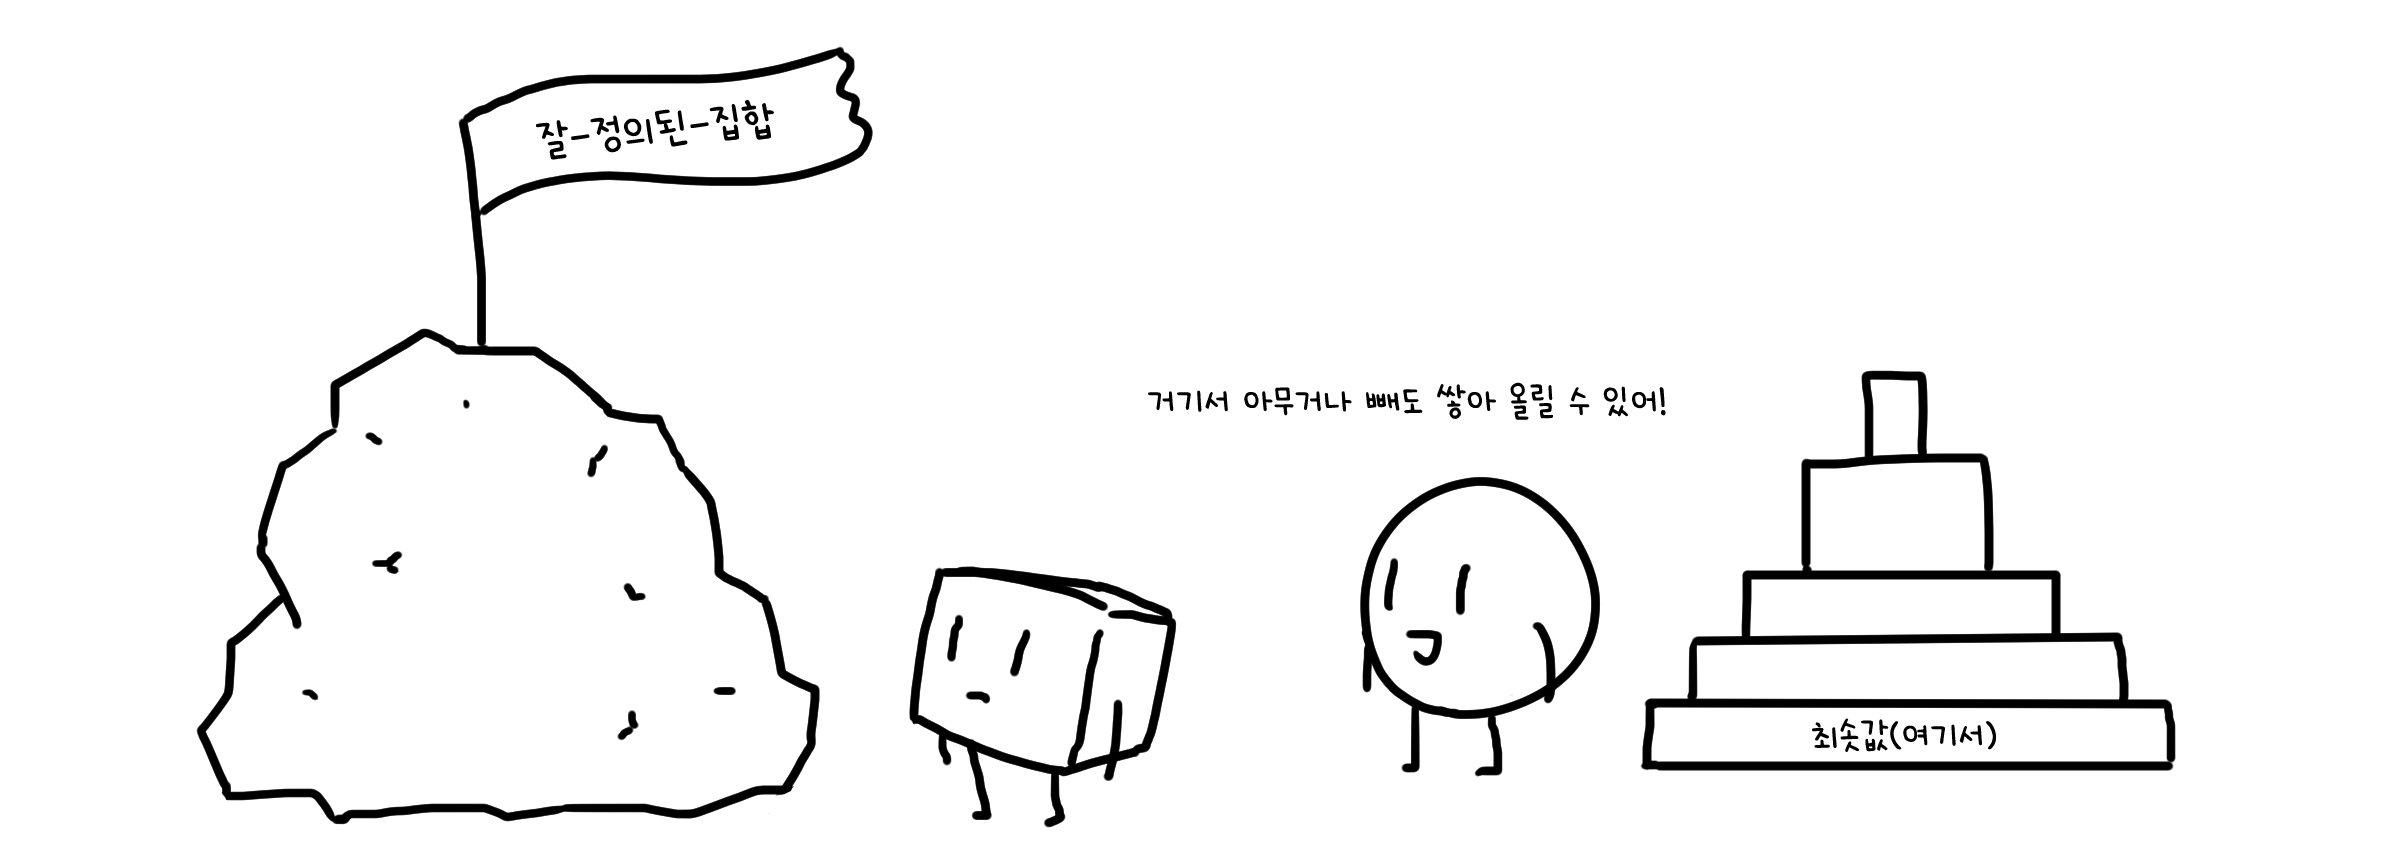
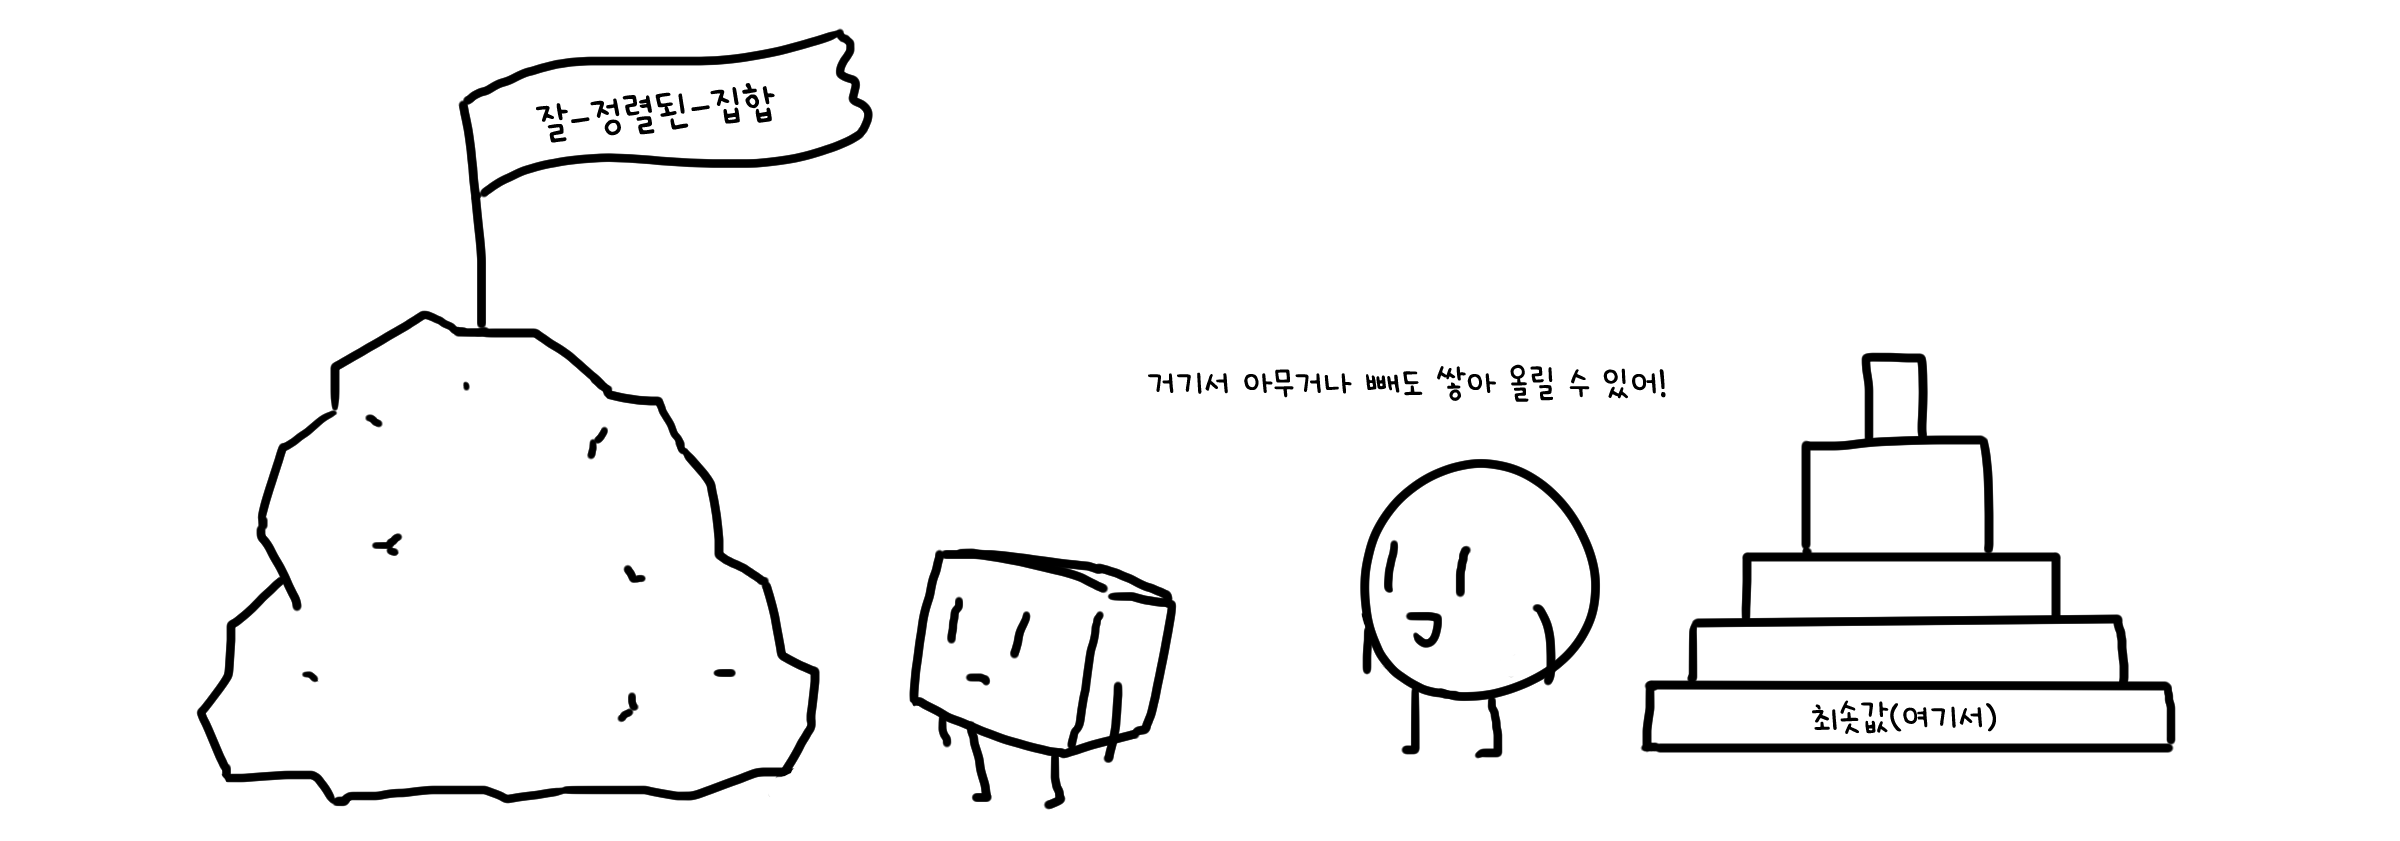
feat: post cm201 6

diff --git a/_posts/2025-11-10-cm201-6.md b/_posts/2025-11-10-cm201-6.md
@@ -1,0 +1,141 @@
+---
+title: '[CM201] 06. 추론 (Inference)'
+description: ''
+author: Doun
+date: 2025-11-10 16:16:00 +0900
+categories: [cm201]
+tags: [이산수학]
+pin: true
+math: true
+mermaid: true
+image:
+  path: /assets/img/thumbnails/cm201/6.png
[1 lines of base64/hex data omitted]
+  alt: '[CM201] 06. 추론 (Inference)'
+---
+
+이때까지 다루었던 내용들을 써 먹어 볼 시간입니다. 여러 가지 문제들을 해결하는데 도움이 되는 기본적인 추론 과정들에 대해 소개하겠습니다.
+
+## 귀납법과 연역법 (Induction & Deduction)
+
+ &ensp;어떤 문제를 해결하는데 사용하는 추론 방법은 크게 연역적인 경우와 귀납적인 경우로 구분할 수 있습니다. **연역(deduction)**은 일반적 원리에서 개별적 결론을 이끌어내는 추론 방식이고, **귀납(induction)**은 개별적 사례들에서 일반적 원리를 발견하는 추론 방식입니다.
+
+<img src="{{ 'assets/img/illustration/cm201/6_1.png' | absolute_url }}" alt="image1" class="post" />
+
+ &ensp;귀납적 사고방식은 주로 **과학적인 사실을 밝혀내는데 사용**됩니다. 세상에 벌어지는 다양한 현상들을 관찰하고 수집하여, 거기서 보이는 어떤 공통적인 패턴을 찾아 법칙이라는 이름을 붙이는 것이죠. 결론은 어디까지나 맞는게 아닌, 가능성이 높은 편일 뿐입니다. 새로운 반례가 나타나면 깨질 수도 있죠. 과학계가 매번 뒤집히고 들썩이고 하는 이유가 이 때문이에요.
+
+<img src="{{ 'assets/img/illustration/cm201/6_2.png' | absolute_url }}" alt="image2" class="post" />
+
+ &ensp;반면 이때까지 논리를 다루는 방법을 보면 알 수 있듯이, **수학은 귀납적 추론을 허용하지 않습니다.**  n이 1일 때, 2일 때, 3일 때... 등 자잘한 사례들을 모아 명제를 증명해도, 그게 모든 자연수 n에 대해서 성립한다고 말할 수는 없으니까요. 대신 정의와 정리라는 일반적인 원리를 기반으로 증명을 통해 새로운 정리를 이끌어내는 **연역적 사고방식**을 사용하게 됩니다.
+
+<img src="{{ 'assets/img/illustration/cm201/6_3.png' | absolute_url }}" alt="image3" class="post" />
+
+### 수학적 귀납법 (Mathematical induction)
+
+ &ensp;그래서, 우리가 알아볼 것은 **수학적 귀납법**입니다.
+
+<img src="{{ 'assets/img/illustration/cm201/6_4.png' | absolute_url }}" alt="image4" class="post" />
+
+ &ensp;네. 이건 *수학적* 귀납법입니다. 사실 이것도 연역적 추론 방식의 일부입니다. 우선, 수학적 귀납법을 수식으로 나타내면 이렇게 요약할 수 있습니다.
+
+$$
+\forall n \in \mathbb{Z}^+, \quad \{S(1) ∧ (\forall n \; S(n) \rightarrow S(n+1))\} \; \rightarrow \; \forall n \; S(n)
+$$
+
+ &ensp;상당히 복잡해 보이지만, 하나씩 뜯어봅시다…
+
+ &ensp;$S(n)$은 명제함수입니다. $n$에 어떤 값이 들어오느냐에 따라 참 또는 거짓이 결정됩니다. 맨 앞의 양화사는 여기서 $n$이 양의 정수, 그러니까 $n=1, 2, 3,...$의 범위에 있다는 것을 말해줍니다. 그러면 위 식의 결론 $\forall n \; S(n)$는, **모든 n에 대하여 $S(n)$을 만족한다**고 생각할 수 있겠네요. 수학적 귀납법을 통해 증명하려고 하는 내용이죠.
+
+ &ensp;이제 이 결론을 만족하기 위한 조건을 두 개로 나눌 수 있습니다.
+
+- **기본 단계 (Base step) :** $S(1)$
+
+- **귀납적 단계 (Inductive Step) :** $\forall n \; S(n) \rightarrow S(n+1)$
+
+ &ensp;기본 단계는 $n=1$일 때, 즉 **제일 처음의 경우에 대해 $S(n)$이 참이어야 한다**는 조건입니다. 그리고 귀납적 단계는 모든 n에 대해 **$S(n)$이 참일 경우 $S(n+1)$ 또한 참이어야 한다**는조건입니다. 그러니까 이렇게 다시 적을 수 있겠네요.
+
+- **기본 단계 (Base step) :** $n=1$일 때 참이다.
+
+- **귀납적 단계 (Inductive Step) :** $n=k$일 때 참이면, $n=k+1$일때도 참이다.
+
+ &ensp;한 경우가 참일 때 그 다음 경우도 참이 된다는 사실이 밝혀지면, 제일 첫 경우가 참이기만 해도 다른 경우들이 꼬리에 꼬리를 물고 참임이 밝혀지게 됩니다. 그렇게 이론적으로 모든 $n$에 대해 명제가 참이 됨을 보일 수 있습니다.
+
+<img src="{{ 'assets/img/illustration/cm201/6_5.png' | absolute_url }}" alt="image5" class="post" />
+
+### 수학적 귀납법 - 증명
+
+ &ensp;조금 더 엄밀하게 이 방법이 문제 없다는 것을 증명해볼게요. 귀류법을 사용하겠습니다.
+
+ &ensp;만약 위의 방법을 사용해 증명 했음에도, 기어코 **$S(n)$이 거짓이 되는 n들을 찾아버렸다고 가정**해봅시다. 이를 모아 집합 $P$라고 하고요.
+
+$$
+P = \{n | S(n) = \text{false}\}
+$$
+
+ &ensp;$P$ 안에는 필시 최솟값을 가지는 $n$값 $k$가 있을 것입니다. 이 $k$값도 두 가지 경우가 있을 거에요.
+
+- $k = 1$ 일 때
+
+- $k > 1$ 일 때
+
+ &ensp;이 두 가지 경우에 대해 각각 모순이 발생함을 보여주면 됩니다.
+
+- **$k = 1$ 일 때 :** 이미 수학적 귀납법을 통해 $n = 1$ 일 때 $S(n)$이 참임을 보였어요. 바로 모순입니다.
+
+- **$k > 1$ 일 때 :** $k$가 $n$ 중에서 최솟값이 아니기 때문에, **반드시 $k$보다 1 작은 $k-1$이 $n$중에 있을 것입니다.** 그리고 $k$는 $P$ 중에서 최솟값이므로, $n = k-1$ 일 때 $S(n)$은 거짓이 아니겠고요. 그러면 참이란 말인데, 우리는 이미 **수학적 귀납법을 통해 $S(n)$이 참일 때 $S(n+1)$도 참임을 보였어요**. 즉 S(k-1)이 참이니 S(k) 또한 참이라는 뜻이죠. 하지만 우리는 n=k일 때 $S(n)$이 거짓이라는 가정을 했었으니, 모순이 됩니다.
+
+ &ensp;모든 경우에 대해 $P$의 최솟값인 $k$의 존재가 부정당했으므로, $P$는 존재할 수 없습니다. 따라서 귀납법을 통해 **모든 $n$에 대해 $S(n)$이 참이 됨을 증명할 수 있게 됩니다!** $\Box$
+
+ &ensp;이 모든 증명 과정은 $n$이 속한 자연수가 **잘-정렬된 집합(Well-ordered set)**이기 때문입니다. 반드시 최솟값이 존재하고, 이를 시작으로 순서를 세울 수 있는 집합인 것이죠.
+
+<img src="{{ 'assets/img/illustration/cm201/6_6.png' | absolute_url }}" alt="image6" class="post" />
+
+> 좀 더 강한 조건을 가진 수학적 귀납법도 있습니다. 이 때는 $S(n-1)$이 참이면 $S(n)$도 참이 아닌, $S(1)$ 부터 $S(n-1)$까지 모두 참이면 $S(n)$도 참이어야 합니다. 즉,
+$$
+\quad \forall k \; (1 \leq k < n) \quad S(k) \rightarrow S(n)
+$$
+{: .prompt-tip }
+
+### 수학적 귀납법 - 예시
+
+ &ensp;수학적 귀납법을 통해 참임을 밝힐 수 있는 간단한 명제를 살펴봅시다.
+
+> 모든 자연수 $n$에 대해 $5^n - 1$은 4로 나누어 떨어진다.
+
+- **$n = 1$ 일 때 :** $5 - 1 = 4$ 니까 당연히 4로 나누어 떨어집니다. → **참!**
+
+- **$n = k$ 일 때 :** $5^k - 1$가 4로 나누어 떨어진다고 가정합시다. 그러면 $5^k - 1 = 4m \; (m \in \mathbb{Z}^+)$라고 둘 수 있습니다. 그러면 $5^k = 4m + 1$로 나타낼 수 도 있습니다.
+
+- **$n = k+1$ 일 때 :** $5^{k+1} - 1 = 5 * (4m + 1) - 1 = 4 * (5m + 1)$. 즉, 4로 나누어 떨어질 수 있습니다. → **참!**
+
+ &ensp;따라서, 모든 자연수 $n$에 대해 $5^n - 1$은 4로 나누어 떨어진다는 명제는 참입니다. $\Box$
+
+## 문자, 문자열, 문자열들..
+
+ &ensp;**순서구조(Sequence)**는 정의역이 연속적인 정수로 정의된 특별한 형태의 함수 입니다. 좀 더 쉽게 말하면, 순서 번호(인덱스)를 매길 수 있는 값들의 나열이라고 볼 수 있겠습니다.
+
+ &ensp;그 중에서 **문자열(String)**은 특히, 그 값이 문자로 이루어져 있는 경우입니다. 순서가 있기 때문에, 문자들의 순서가 뒤바뀌거나 같은 문자가 중복되어 나타나도 다른 문자열로 볼 수 있습니다. 문자열과 관련된 대표적인 연산으로는 그 **길이(Length)**를 구하거나 **뒤집고(Reversal)**, 두 문자열을 **합치거나(Concatenate)** **하위 문자열(Substring)**을 구하는 것 등이 있습니다.
+
+<img src="{{ 'assets/img/illustration/cm201/6_7.png' | absolute_url }}" alt="image7" class="post" />
+
+ &ensp;갑자기 왜 문자열 이야기를 하냐고요? 이런 문자열 연산들을 간단히 표현할 수 있는 방법에 대해 소개하려고요. 바로 **재귀**입니다.
+
+## 재귀 (Recursion)
+
+ &ensp;**재귀(Recursion)**은 문제를 자기 자신보다 더 작은 문제로 정의하는 방법입니다. 그 새로운 문제가 원래 문제와 유사한 형태를 띠기 때문에, 자기 자신으로 돌아온다는 의미를 가지게 되었습니다.
+
+<img src="{{ 'assets/img/illustration/cm201/6_8.png' | absolute_url }}" alt="image8" class="post" />
+
+ &ensp;재귀적 표현은 크게 두 부분으로 이루어져 있습니다. 더 이상 분해할 수 없는 최소 단위에 대한 정의인 **기본 단계(Basis step)**와 더 작은 문제로 분할할 수 있어 재귀 표현이 가능한 **재귀 단계(Recursive step)**가 있죠. 앞서 정의했던 문자열과 문자열의 연산들을 재귀적 표현으로 나타내면 아래와 같습니다.
+
+|                      | 기본 단계                | 재귀 단계              |
+| :------------------- | :--------------------: | :-------------------: |
+| 문자열 정의($w$)       | $w=\lambda$            | $w = w'x$             |
+| 문자열 길이($L(w)$)    | $L(\lambda) = 0$       | $L(wx) = L(w) + 1$    |
+| 문자열 결합($C(a, b)$) | $C(a, \lambda) = a$    | $C(a, xb) = C(ax, b)$ |
+| 문자열 반전($R(w)$)    | $R(\lambda) = \lambda$ | $R(wx) = xR(w)$       |
+
+($\lambda$ : 빈 문자열, $x$ : 문자)
+
+> 재귀를 이용해 문제를 표기하는 방법을 **회귀(Recurrence)**라고 합니다. 회귀를 이용해 문제를 해결하는 대표적인 방법으로 **분할 정복(Divide and conquer)**이 있는데, 이에 대해서는 '알고리즘'에서 자세히 다루도록 하겠습니다.
+{: .prompt-info }
